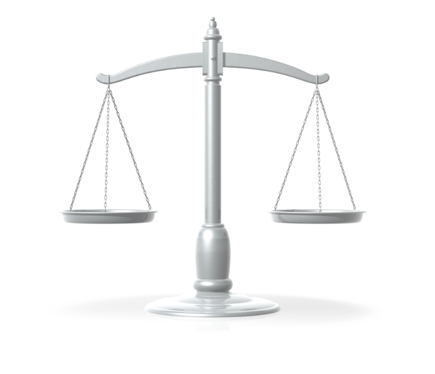
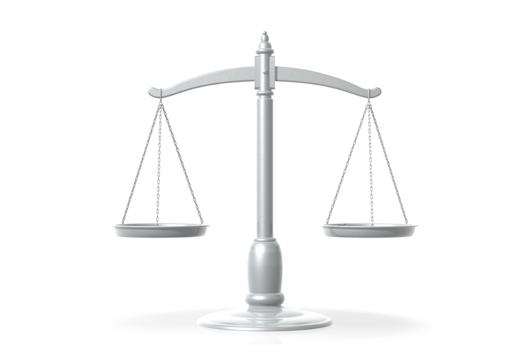
fixed methods formatting + updated bg img

Changed region(s): [[0.1494, 0.0307, 0.8368, 0.9525], [0.1793, 0.3994, 0.2092, 0.4916]]

diff --git a/_includes/methods.html b/_includes/methods.html
@@ -12,14 +12,14 @@
 
                     <br>The model consists of <b>three main components</b>:
                     <ol>
-                        <li><b>Encoder:</b> Forward pass of retrieving pseudo_Y, given X. pseud_Y will be the intermediate label that will be used to establish independence with S. 
+                        <li><b>Encoder:</b> Forward pass of retrieving pseudo_Y, given X. pseudo_Y will be the intermediate label that will be used to establish independence with S. 
                             It works to avoid direct dependence on S.</li>
                         <li><b>Adversarial Branch:</b> This branch tests whether pseudo_Y retains information about S by attempting to predict S from pseudo_Y. 
                             If successful, it indicates dependence. To counteract this, the encoder learns to remove S-related information using a Gradient Reversal Layer 
                             (GRL), which flips the gradient to prevent encoding S in pseudo_Y. While the adversary minimizes the loss between predicted and true S, the GRL 
                             forces the encoder to maximize this loss, reducing dependencies. This adversarial training occurs during backpropagation, with the encoder and 
                             adversary working against each other. If pseudo_Y becomes independent of S, the adversary ultimately fails, achieving the desired outcome.</li>
-                        <li><b>Decoder:</b> PThe decoder will try to predict Y given S and pseudo_Y. While we are trying to establish independence between Y and S by
+                        <li><b>Decoder:</b> The decoder will try to predict Y given S and pseudo_Y. While we are trying to establish independence between Y and S by
                              removing unfair dependencies of S on Y, some fair dependencies can still exist. For this reason, pseudo_Y and S are being used to predict 
                              Y so that the output includes accurate and fair results.</li>
                     </ol>
@@ -36,35 +36,40 @@
                     <br>
                     <br><center><h2 class="section-heading">Datasets Implemented</h2></center>
                         <p>We evaluate our model on both synthetic and real-world datasets.</p>
-
-                        <br><p>The <b>Binary Synthetic Dataset:</b> This dataset was synthetically created to evaluate model performance under ideal conditions where the observed label is binary, 
-                            with 5000 rows and 30 features. It consists of a sensitive binary feature S sampled from a binomial distribution, a feature matrix \(X\) influenced by
-                             S and multinomial noise, and a target variable Y derived from a linear function of \(X\) with added noise. With this we have binary fair 
-                             labels Y. To get unfair labels, we inject Y with bias by systematically modifying labels assigned based on S. Y labels will be modified so 
-                             that Y = 1 is more likely for samples where S=1, while Y=0 are for samples where S=0.</p>
-                        
-                        <br><p>The <b>UCI Adult dataset:</b> This dataset a popular tool for determining if a person makes more than $50,000 annually and is obtained from 
-                            the U.S. Census Bureau. It includes information about age, education, occupation, work class, marital status, and weekly hours worked, among 
-                            other demographic and employment variables. This is a larger dataset with 32,561 rows and 5 non-sensitive features. The dataset, which represents 
-                            actual income distribution inequalities, is often utilized in fairness and prejudice research. Due to its structured nature, it serves as a 
-                            benchmark for classification models in machine learning. In this dataset, the sensitive feature that we will be using is gender, 1 if male and 0 
-                            if female. The observed unfair label is income; 1 if >50K and 0 if less than $50K. </p>
-                        
-                        <br><p>The <b>COMPAS dataset:</b> Criminal justice data used to determine the probability of recidivism (reoffending) based on demographic and 
-                            criminal history criteria may be found in the COMPAS dataset, which is gathered by ProPublica. Features including age, sex, race, past crimes, 
-                            and COMPAS risk scores are among them. This dataset has 7214 rows and 5 non-confounding features. Studies have revealed that the COMPAS risk 
-                            assessment tool includes racial discrepancies, making it a crucial resource for assessing ethical difficulties in judicial decision-making and 
-                            predictive policing. As a result, this dataset has been at the center of arguments on algorithmic fairness and bias. For this dataset, 
-                            the sensitive feature is race - 1 if African-American, 0 if not African-American. The observed label is prediction of recidivism - 1 if they 
-                            will reoffend within a 2 year frame and 0 if they won’t.</p>
-
-                        <br><p>The <b>UCI Drug (Cannabis) Consumption Dataset</b> This dataset is taken from UCI Machine Learning Repository. This dataset contains 1884 rows
-                             and 10 non-confounding features. It includes information about how frequently an individual uses cannabis, along with personal information like
-                              gender, ethnicity, and country. The use of this dataset is to predict how likely an individual is to consume cannabis. We pre-process the
-                               dataset so there are 4 groups of likeliness:  (1) never used, (2) not used in the last year, (3) used in the last year, (4) used in the last
+                        <ol>
+                            <li>
+                                <b>Binary Synthetic Dataset:</b> This dataset was synthetically created to evaluate model performance under ideal conditions where the observed label is binary, 
+                                with 5000 rows and 30 features. It consists of a sensitive binary feature S sampled from a binomial distribution, a feature matrix \(X\) influenced by
+                                S and multinomial noise, and a target variable Y derived from a linear function of \(X\) with added noise. With this we have binary fair 
+                                labels Y. To get unfair labels, we inject Y with bias by systematically modifying labels assigned based on S. Y labels will be modified so 
+                                that Y = 1 is more likely for samples where S=1, while Y=0 are for samples where S=0.
+                            </li>
+                            <li>
+                                <b>UCI Adult dataset:</b> This dataset a popular tool for determining if a person makes more than $50,000 annually and is obtained from 
+                                the U.S. Census Bureau. It includes information about age, education, occupation, work class, marital status, and weekly hours worked, among 
+                                other demographic and employment variables. This is a larger dataset with 32,561 rows and 5 non-sensitive features. The dataset, which represents 
+                                actual income distribution inequalities, is often utilized in fairness and prejudice research. Due to its structured nature, it serves as a 
+                                benchmark for classification models in machine learning. In this dataset, the sensitive feature that we will be using is gender, 1 if male and 0 
+                                if female. The observed unfair label is income; 1 if >50K and 0 if less than $50K.
+                            </li>
+                            <li>
+                                <b>COMPAS dataset:</b> Criminal justice data used to determine the probability of recidivism (reoffending) based on demographic and 
+                                criminal history criteria may be found in the COMPAS dataset, which is gathered by ProPublica. Features including age, sex, race, past crimes, 
+                                and COMPAS risk scores are among them. This dataset has 7214 rows and 5 non-confounding features. Studies have revealed that the COMPAS risk 
+                                assessment tool includes racial discrepancies, making it a crucial resource for assessing ethical difficulties in judicial decision-making and 
+                                predictive policing. As a result, this dataset has been at the center of arguments on algorithmic fairness and bias. For this dataset, 
+                                the sensitive feature is race - 1 if African-American, 0 if not African-American. The observed label is prediction of recidivism - 1 if they 
+                                will reoffend within a 2 year frame and 0 if they won’t.
+                            </li>
+                            <li>
+                                <b>UCI Drug (Cannabis) Consumption Dataset</b> This dataset is taken from UCI Machine Learning Repository. This dataset contains 1884 rows
+                                and 10 non-confounding features. It includes information about how frequently an individual uses cannabis, along with personal information like
+                                gender, ethnicity, and country. The use of this dataset is to predict how likely an individual is to consume cannabis. We pre-process the
+                                dataset so there are 4 groups of likeliness:  (1) never used, (2) not used in the last year, (3) used in the last year, (4) used in the last
                                 week. For this dataset, the sensitive feature is education level - 1 if received higher education, 0 if didn’t receive higher education. The
-                                observed label is likeliness of cannabis use.</p>
-
+                                observed label is likeliness of cannabis use.
+                            </li>
+                        </ol>
                     <br><center><h2 class="section-heading">Evaluation Metrics</h2></center>
                         <p>Once we obtained the fair latent variable from the encoder-decoder model, we evaluated its performance using logistic regression. A baseline model
                             was trained on X and observed Y, while another was trained on preprocessed X and fair labels (pseudo_Y). We evaluated performance using the 
@@ -76,7 +81,7 @@
                             <li><b>Area Under the Curve (AUC):</b>Evaluates the model's ability to distinguish between classes, using a one-vs-rest approach for multi-class cases.</li>
                             <li><b>Accuracy:</b>The proportion of correctly predicted labels, providing an overall performance measure.</li>
                         </ol>
-                        <p><b>These metrics help quantify fairness and performance in the learned fair representations.</b></p>
+                        <p><b><em>These metrics help quantify fairness and performance in the learned fair representations.</em></b></p>
                 </div>
             </div>
         </div>
